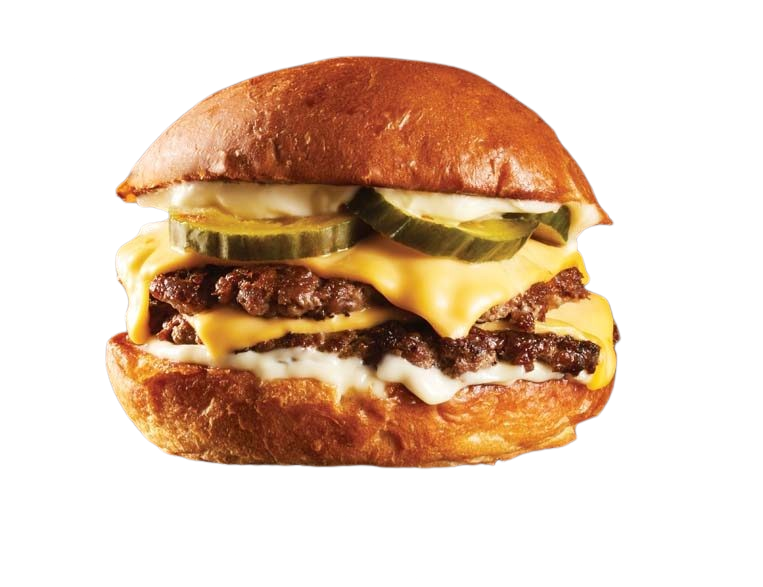
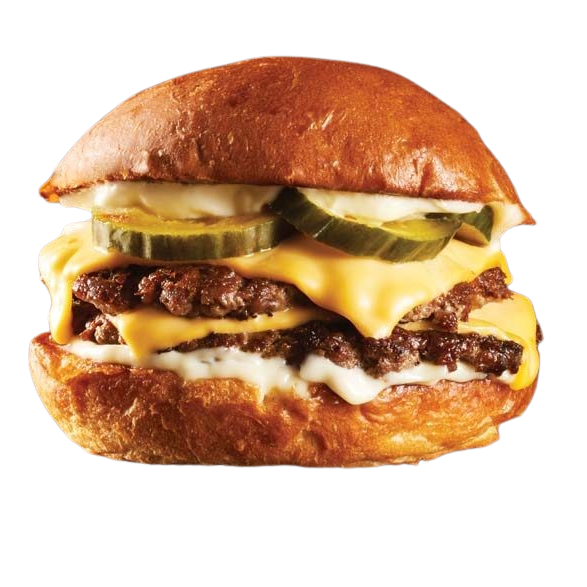
Add cheesecake to the menu, enhance imgs and CSS

diff --git a/src/js/home.js b/src/js/home.js
@@ -6,7 +6,7 @@ const paraOfintro = document.createElement('p');
 const enjoyTxt = document.createElement('h3');
 
 h2.textContent = "Who we are:";
-paraOfintro.textContent = "Silva's Restaurant is your ultimate choice when you are hungry, or even angry. We offer high-quality food with the best and lowest (this is not a lie actually) prices in the market, and you should believe it. Any complaints about our prices will never be on consideration becuase we believe that the customer is always wrong and greedy, be generous and BUY OUR FOOD RIGHT NOW YOU $#@%!";
+paraOfintro.textContent = "Silva's Restaurant is your ultimate choice when you are hungry, or even angry. We offer high-quality food with the best and lowest prices in the market (this is not a lie actually) , and you SHOULD BEILVE IT. Any complaints about our prices will never be taken into consideration as we deeply believe that the customer is always wrong and greedy. be generous and BUY OUR FOOD RIGHT NOW YOU $#@%!";
 enjoyTxt.textContent= "Enjoy our dishes :)";
 txtContainer.classList.add('txtContainer');
 

diff --git a/src/js/menu.js b/src/js/menu.js
@@ -1,4 +1,5 @@
-import burgerImg from '../imgs/burger.png'
+import burgerImg from '../imgs/burger.png';
+import cheesecakeImg from '../imgs/cheesecake.png';
 
 function createDish (name, price, description, img){
     return {
@@ -10,6 +11,7 @@ function createDish (name, price, description, img){
 }
 
 const burger = createDish("burger", "1299$", "Our top-tier burger, it's delicious, fancy and healthy too", burgerImg);
+const cheesecake = createDish("cheesecake", "799$", "Not any cheesecake, it will make you either happy :) or sad :( depends on your financial status", cheesecakeImg)
 
 function createMenuDish (dish){
     const dishConatiner = document.createElement('div');
@@ -40,7 +42,8 @@ function createMenuDish (dish){
 }
 
 const burgerDiv = createMenuDish(burger);
+const cheesecakeDiv = createMenuDish(cheesecake);
 
-const arrayOfElemnts = [burgerDiv];
+const arrayOfElemnts = [burgerDiv, cheesecakeDiv];
 
 export default arrayOfElemnts;

diff --git a/src/js/index.js b/src/js/index.js
@@ -37,11 +37,13 @@ function appendChildren(moduleElements){
 btns.forEach((btn) => {
     if (btn.classList.contains('1')){
         btn.addEventListener('click', () => {
+            content.style = "flex-direction: row"; 
             appendChildren(homeElements);
         })
     }
     else if (btn.classList.contains('2')){
         btn.addEventListener('click', () => {
+            content.style = "flex-direction: column"; 
             appendChildren(menuElements);
         })
     }
